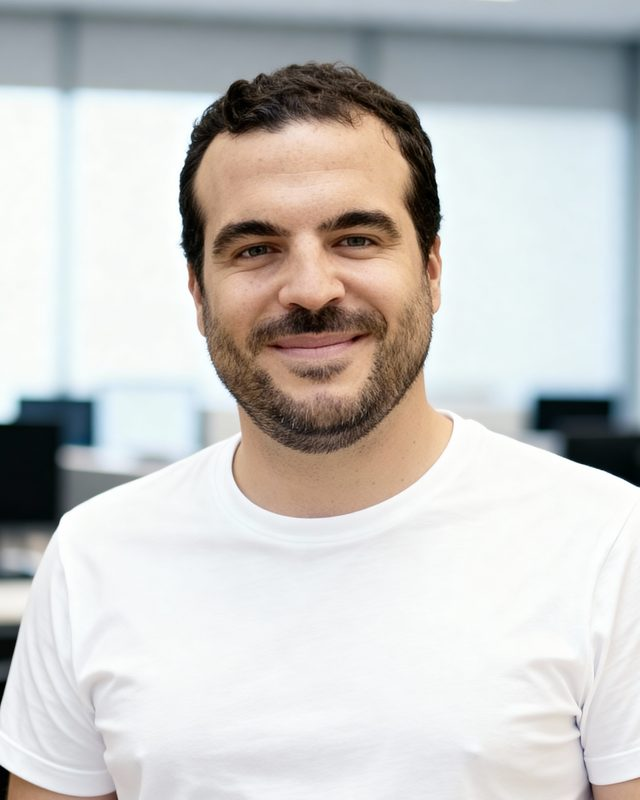
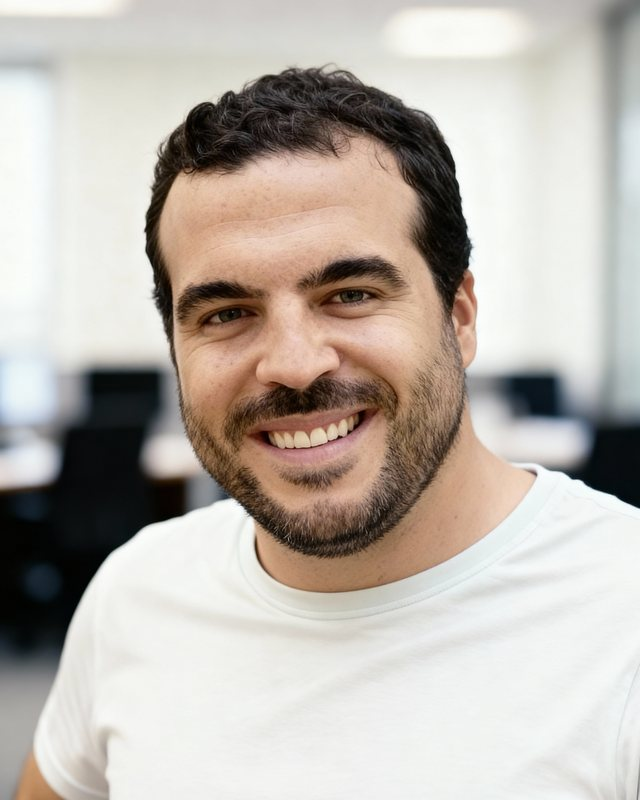
Calculadora para quien no descuenta o vende barato, y foto nueva
Claude-Session: https://claude.ai/code/session_01Y5xgyWyLfhcFvfQZkMzumN

diff --git a/index.html b/index.html
@@ -213,14 +213,14 @@ footer b{color:var(--papel)}
             <input id="v" type="number" inputmode="numeric" min="0" value="40">
           </div>
           <div class="field">
-            <label for="p">Ventas que se cierran con descuento</label>
+            <label for="p">Ventas que cerráis por debajo de lo que vale</label>
             <div class="unit"><input id="p" type="number" inputmode="decimal" min="0" max="100" value="50"><span>%</span></div>
-            <small>Si no lo sabes, pon tu mejor estimación.</small>
+            <small>Con descuento, o con un precio ya bajo de entrada. Si siempre vendéis barato, pon 100.</small>
           </div>
           <div class="field">
-            <label for="d">Descuento medio</label>
+            <label for="d">Cuánto por debajo, de media</label>
             <div class="unit"><input id="d" type="number" inputmode="decimal" min="0" max="60" step="0.5" value="8"><span>%</span></div>
-            <small>Si nunca hacéis descuentos, pon 0.</small>
+            <small>El descuento que hacéis o, si no descontáis, cuánto más cobraríais si nadie os regateara.</small>
           </div>
           <div class="field" style="grid-column:1/-1">
             <label for="m">Vuestro margen bruto</label>
@@ -228,10 +228,10 @@ footer b{color:var(--papel)}
           </div>
         </div>
         <div class="cuenta" aria-live="polite">
-          <span class="label" style="color:var(--papel);font-size:15px">Lo que perdéis cada año:</span>
+          <span class="label" id="cifra-label" style="color:var(--papel);font-size:15px">Lo que perdéis cada año:</span>
           <div class="cifra"><span id="anual-cifra">48.000 €</span></div>
-          <div class="desglose" id="anual">En descuentos: 2.400 € en cada venta con descuento, en 20 ventas.</div>
-          <div class="desglose">Sale entero del margen: cada euro que no cobráis es un euro menos de beneficio.</div>
+          <div class="desglose" id="anual">Son 2.400 € en cada venta por debajo de lo que vale, en 20 ventas.</div>
+          <div class="desglose" id="margen-txt">Sale entero del margen: cada euro que no cobráis es un euro menos de beneficio.</div>
           <div class="desglose" id="recuperar">Para recuperarlo vendiendo más, con un 25 % de margen, tendríais que facturar 192.000 € más.</div>
           <div class="aviso" id="aviso-ejemplo">Son cifras de ejemplo. Cambia cada una por las vuestras.</div>
           <div class="abrir" id="abrir-wrap">
@@ -441,14 +441,29 @@ addEventListener("resize", ajustarCifra);
 function cuenta(){
   const t=num("#t"), v=num("#v"), p=Math.min(num("#p"),100), d=Math.min(num("#d"),100), m=Math.min(Math.max(num("#m"),1),100);
   const porventa=t*(d/100), conDesc=Math.round(v*(p/100)), total=t*v*(p/100)*(d/100), recuperar=total/(m/100);
-  const ac=$("#anual-cifra"); ac.textContent = eur(total); ajustarCifra();
+  // Si sale 0 (no descontáis o creéis cobrar lo que vale), enseñamos lo que vale cada punto de precio.
+  const cero = total<=0, punto=t*v/100, cinco=punto*5;
+  const ac=$("#anual-cifra"); ac.textContent = eur(cero ? punto : total); ajustarCifra();
+  $("#cifra-label").textContent = cero ? "Lo que vale cada 1 % de precio, al año:" : "Lo que perdéis cada año:";
   const a=$("#anual");
-  a.hidden = total<=0;
-  a.textContent = `Son ${eur(porventa)} en cada venta con descuento, en ${conDesc} ventas.`;
-  $("#recuperar").textContent = `Para recuperarlo vendiendo más, con un ${m} % de margen, tendríais que facturar ${eur(recuperar)} más.`;
-  const ct=$("#c-total"); if (ct) ct.textContent = eur(total);
-  const tt=$("#c-titulo"); if (tt) tt.hidden = total<=0;
-  const bt=$("#abrir"); if (bt) bt.textContent = total>0 ? `Ver por dónde se os van los ${eur(total)} →` : "Ver por dónde se os va el margen →";
+  a.hidden = cero && punto<=0;
+  a.textContent = cero
+    ? `Si de verdad cobráis lo que vale, sois de los pocos. Si no, un 5 % más en cada venta serían ${eur(cinco)} al año.`
+    : `Son ${eur(porventa)} en cada venta por debajo de lo que vale, en ${conDesc} ventas.`;
+  $("#margen-txt").textContent = cero
+    ? "Y entra entero en el margen: subir el precio no cuesta ni un euro más de producir ni de servir."
+    : "Sale entero del margen: cada euro que no cobráis es un euro menos de beneficio.";
+  $("#recuperar").textContent = cero
+    ? `Ganar esos ${eur(cinco)} vendiendo más, con un ${m} % de margen, exigiría facturar ${eur(cinco/(m/100))} más.`
+    : `Para recuperarlo vendiendo más, con un ${m} % de margen, tendríais que facturar ${eur(recuperar)} más.`;
+  const ct=$("#c-total"); if (ct) ct.textContent = eur(cero ? punto : total);
+  const tt=$("#c-titulo");
+  if (tt){
+    tt.hidden = cero && punto<=0;
+    tt.firstChild.textContent = cero ? "Cada 1 % de precio que no cobráis son " : "Este año se os van ";
+    tt.lastChild.textContent = cero ? " al año." : " por aquí, y el que viene igual.";
+  }
+  const bt=$("#abrir"); if (bt) bt.textContent = cero ? "Ver dónde se os queda el precio →" : `Ver por dónde se os van los ${eur(total)} →`;
   $("#aviso-ejemplo").hidden = !(t===DEF.t && v===DEF.v && p===DEF.p && d===DEF.d && m===DEF.m);
   return {t,v,p,d,m,porventa,total,recuperar};
 }
@@ -519,10 +534,10 @@ function resumen(){
     "AUTODIAGNÓSTICO · VENTA B2B POR VALOR",
     `Importe medio por venta: ${eur(c.t)}`,
     `Ventas al año: ${c.v}`,
-    `Ventas con descuento: ${c.p} %`,
-    `Descuento medio: ${c.d} %`,
+    `Ventas por debajo de lo que vale: ${c.p} %`,
+    `Cuánto por debajo, de media: ${c.d} %`,
     `Margen bruto: ${c.m} %`,
-    `Pérdida por venta con descuento: ${eur(c.porventa)}`,
+    `Pérdida por venta: ${eur(c.porventa)}`,
     `Total al año: ${eur(c.total)}`,
     `Facturación extra para recuperarlo: ${eur(c.recuperar)}`,
     ""
